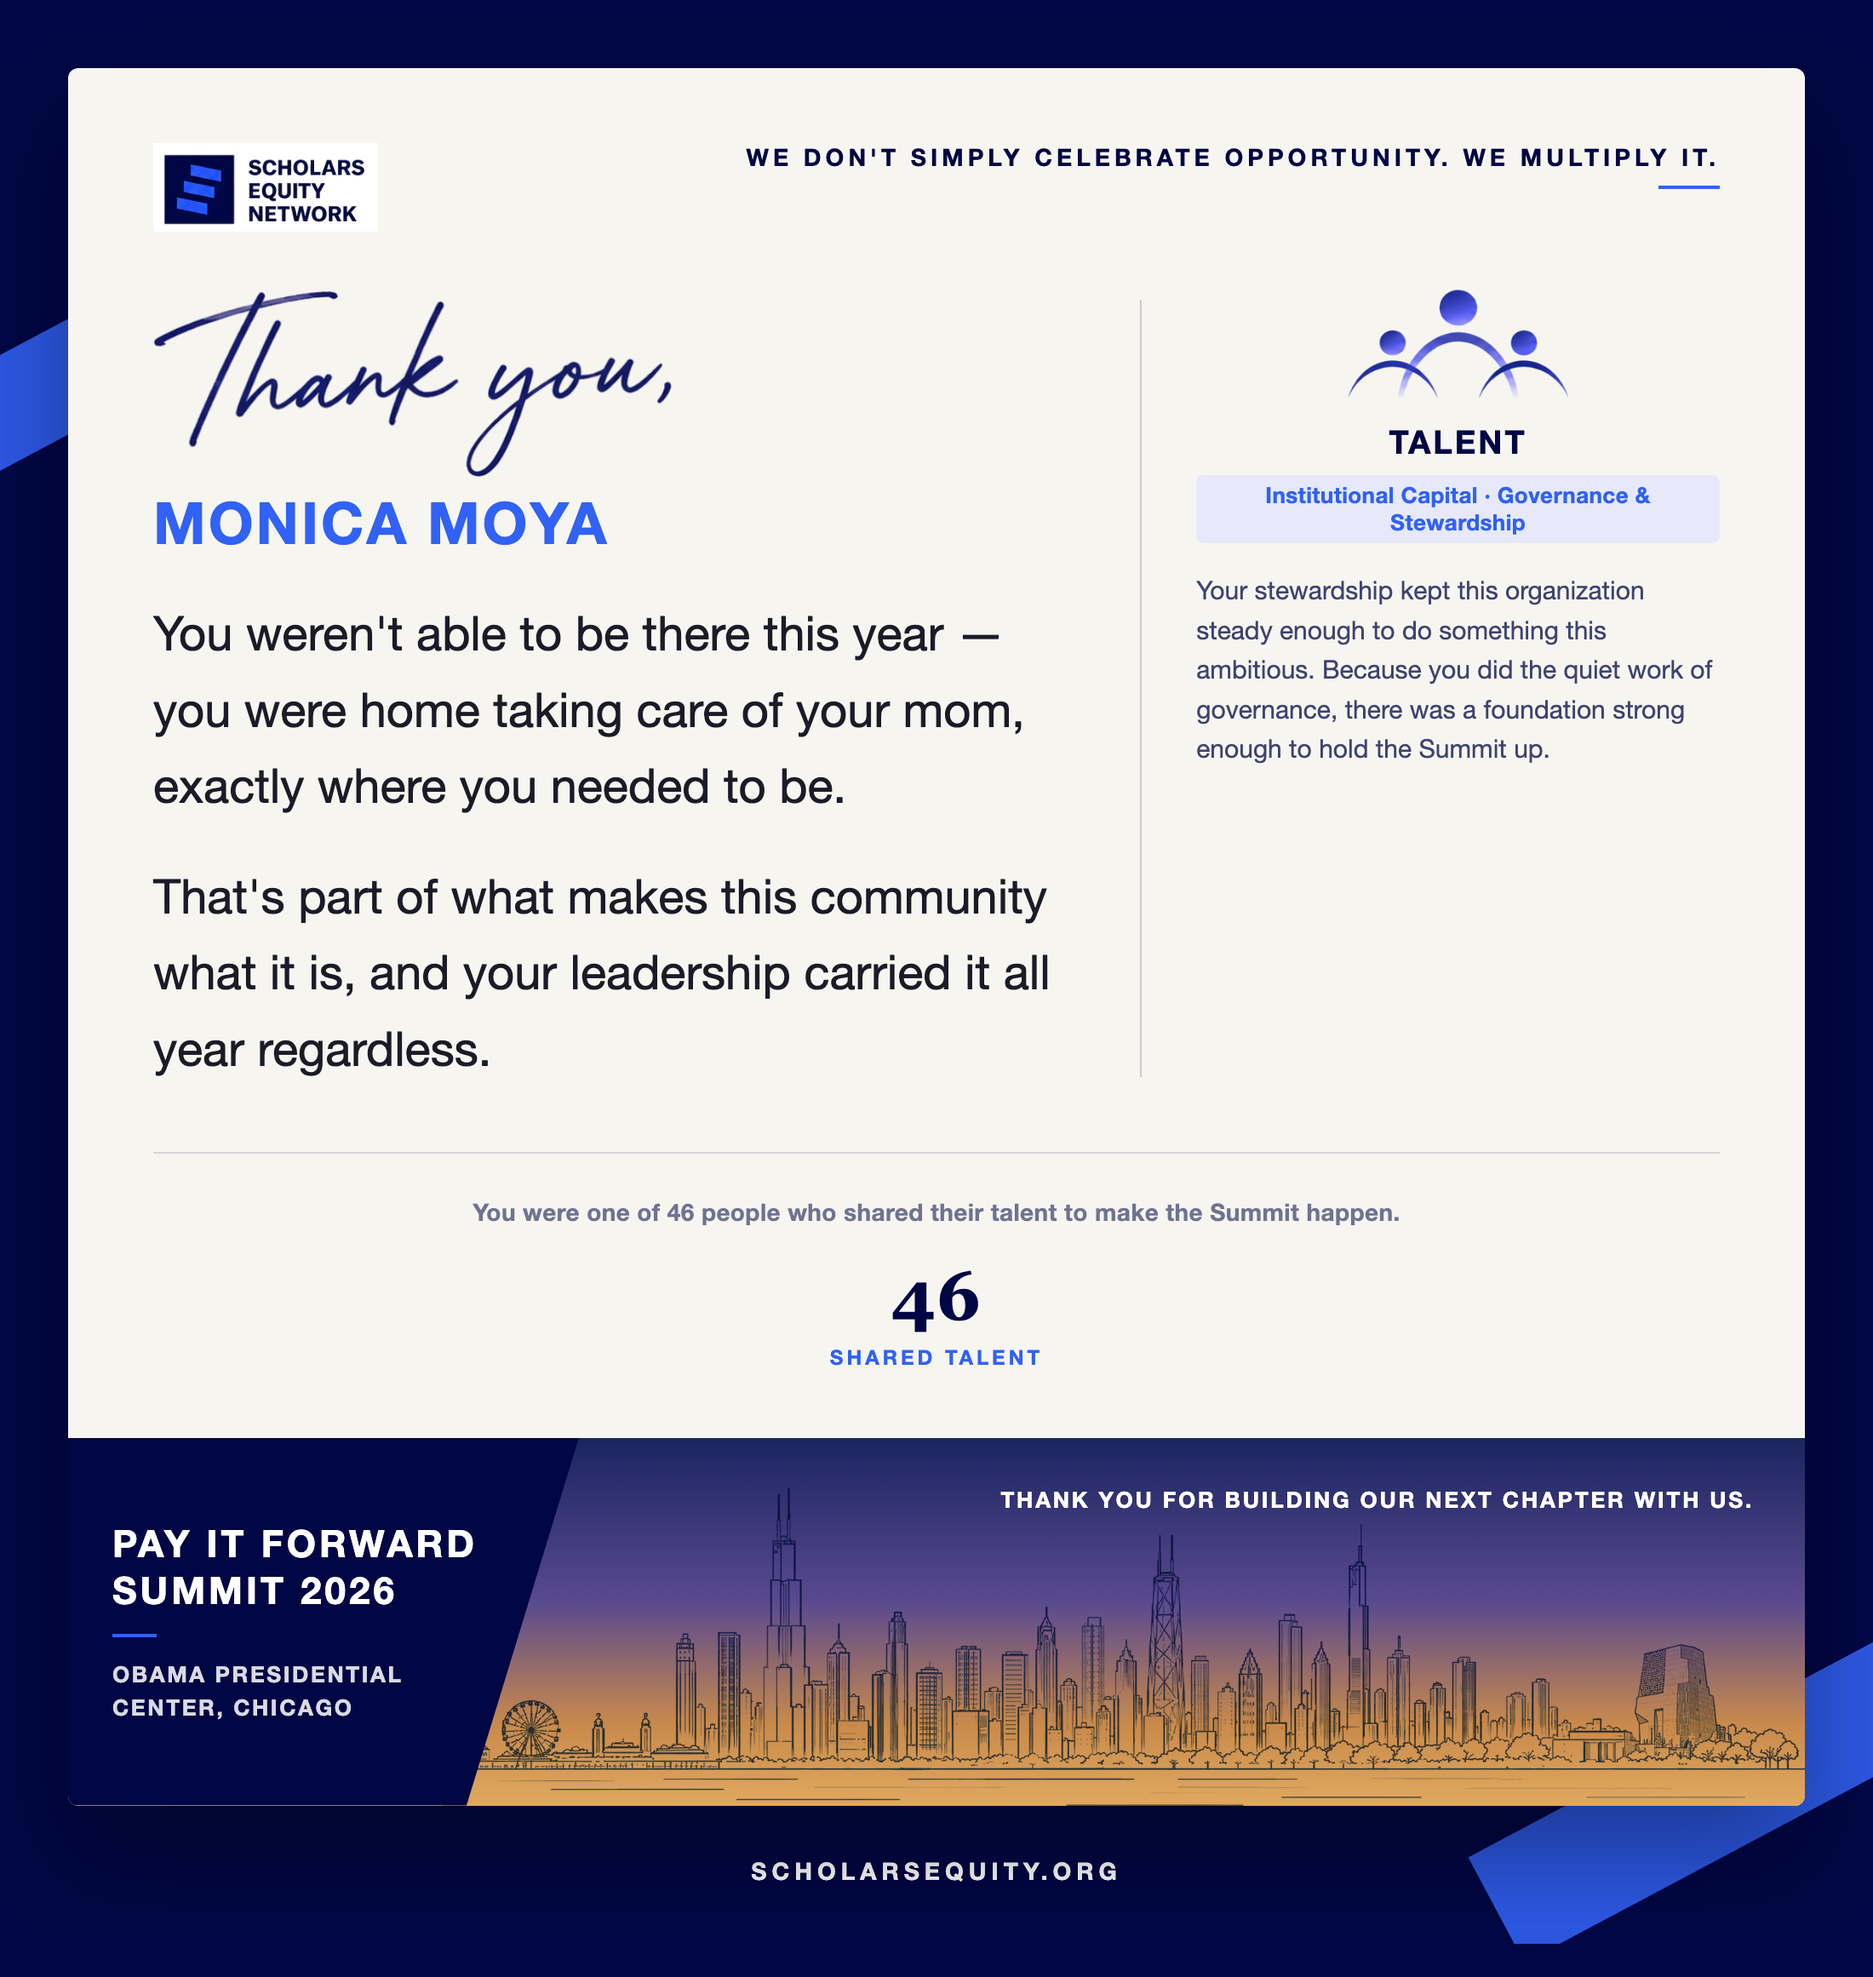
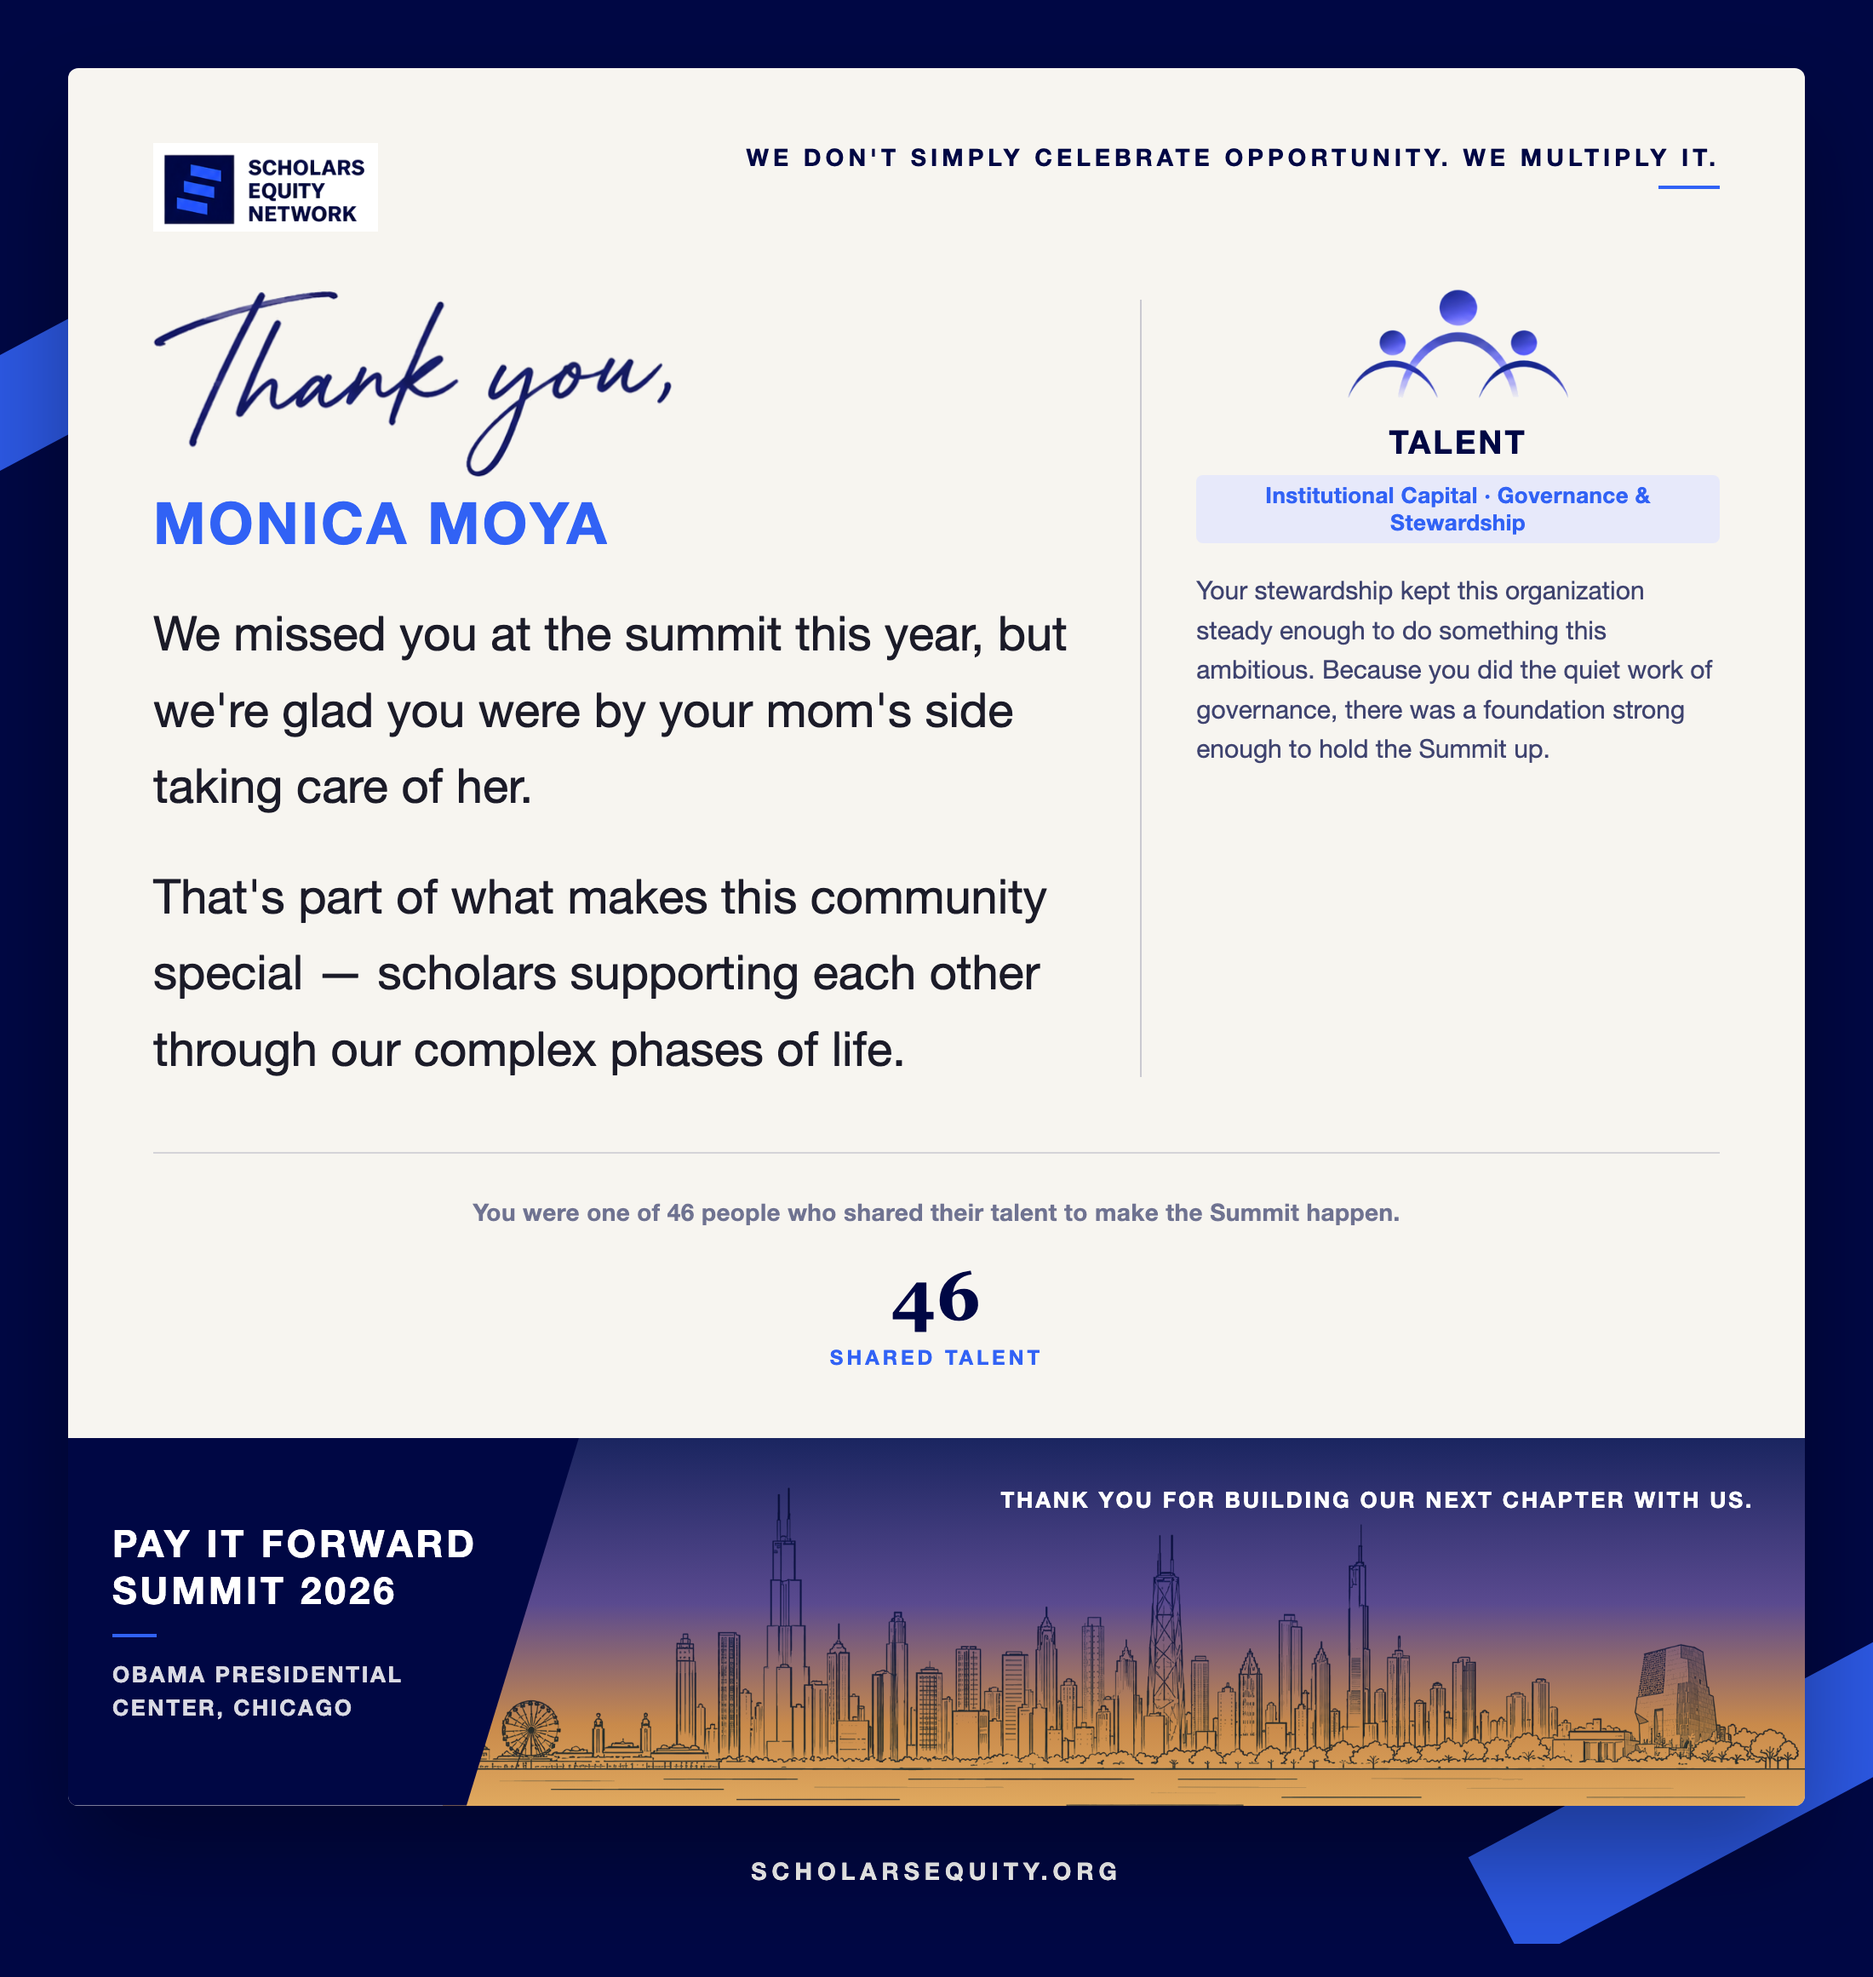
Add Aaron Stallworth and Kelvin Harris; update Monica Moya's message; counts now 23/46/15 (84 total)

Changed region(s): [[0.0927, 0.3101, 0.5873, 0.4031], [0.0927, 0.4651, 0.5564, 0.5581]]

diff --git a/index.html b/index.html
@@ -174,7 +174,7 @@
 </div>
 
 <div class="stats-wrap">
-  <div class="stat"><p class="num">21</p><div class="lbl">Gave Time</div></div>
+  <div class="stat"><p class="num">23</p><div class="lbl">Gave Time</div></div>
   <div class="stat-rule"></div>
   <div class="stat"><p class="num">46</p><div class="lbl">Shared Talent</div></div>
   <div class="stat-rule"></div>
@@ -187,7 +187,7 @@
 </div>
 
 <div class="filters">
-  <button class="filter-chip active" data-filter="ALL">ALL 82</button>
+  <button class="filter-chip active" data-filter="ALL">ALL 84</button>
   <button class="filter-chip" data-filter="TIME">TIME</button>
   <button class="filter-chip" data-filter="TALENT">TALENT</button>
   <button class="filter-chip" data-filter="TREASURE">TREASURE</button>
@@ -292,6 +292,8 @@ const REAL_CARDS = {
   "Sherella Cupid": "assets/cards/Sherella-Cupid.png",
   "Opokua Oduro": "assets/cards/Opokua-Oduro.png",
   "Victoria Perez": "assets/cards/Victoria-Perez.png",
+  "Aaron Stallworth": "assets/cards/Aaron-Stallworth.png",
+  "Kelvin Harris": "assets/cards/Kelvin-Harris.png",
 };
 
 // Full list pulled from the spreadsheet (all 76 people/orgs). Most don't have
@@ -379,6 +381,8 @@ const PEOPLE = [
   {name:"Sherella Cupid", cat:"TIME", sub:"Human Capital — Planning Committee"},
   {name:"Opokua Oduro", cat:"TREASURE", sub:"Financial Capital — Foundation Partnership"},
   {name:"Victoria Perez", cat:"TIME", sub:"Human Capital — Early Support"},
+  {name:"Aaron Stallworth", cat:"TIME", sub:"Human Capital — Service"},
+  {name:"Kelvin Harris", cat:"TIME", sub:"Social Capital — Steady Support"},
 ];
 
 const grid = document.getElementById("grid");
